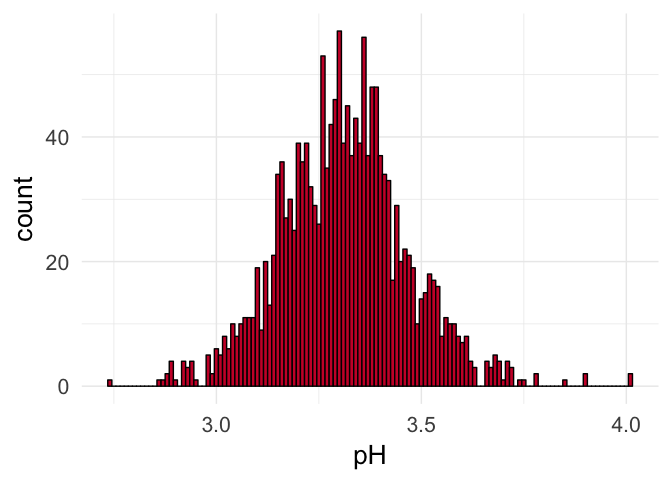
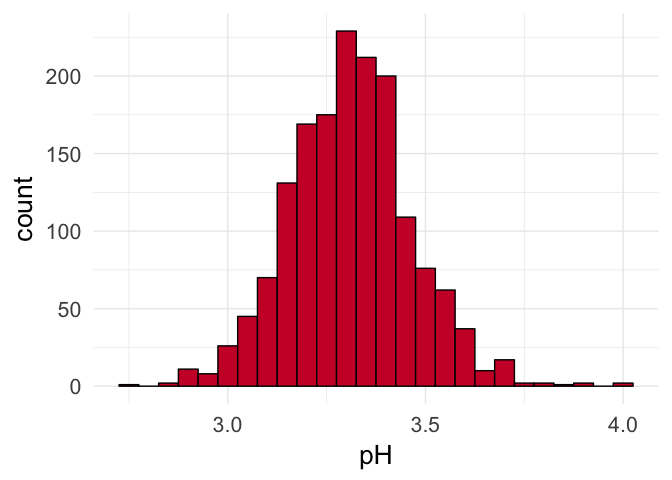
Finished univariate plot section.

diff --git a/red_red_wine.md b/red_red_wine.md
@@ -318,10 +318,12 @@ ggplot(rw) +
 ``` r
 ggplot(rw) +
   geom_histogram(aes(x = pH), color = "black",
-                 fill = "#CC0033", binwidth = .01)
+                 fill = "#CC0033", binwidth = .05)
 ```
 
 ![](red_red_wine_files/figure-markdown_github/unnamed-chunk-21-1.png)
+
+pH (overall acidity) also shows a normalish distribution with few outliers.
 
 #### Sulphates
 
@@ -333,6 +335,17 @@ ggplot(rw) +
 
 ![](red_red_wine_files/figure-markdown_github/unnamed-chunk-22-1.png)
 
+Sulphates, an additive which serves as a preservative, demonstrates a right skewed curve with a long tail. Let's see what how it looks after a square root transformation.
+
+``` r
+ggplot(rw) +
+  geom_histogram(aes(x = sqrt(sulphates)), color = "black",
+                 fill = "#CCFF00", binwidth = .02) +
+  scale_x_continuous(lim = c(0.5, quantile(rw$sulfates, 0.95)))
+```
+
+![](red_red_wine_files/figure-markdown_github/unnamed-chunk-23-1.png) That's normalish.
+
 #### Alcohol Content % By Volume
 
 ``` r
@@ -342,9 +355,16 @@ ggplot(rw) +
                  fill = "#FF6666", binwidth = .1)
 ```
 
-![](red_red_wine_files/figure-markdown_github/unnamed-chunk-23-1.png)
+![](red_red_wine_files/figure-markdown_github/unnamed-chunk-24-1.png)
 
-> **Tip**: Make sure that you leave a blank line between the start / end of each code block and the end / start of your Markdown text so that it is formatted nicely in the knitted text. Note as well that text on consecutive lines is treated as a single space. Make sure you have a blank line between your paragraphs so that they too are formatted for easy readability.
+``` r
+summary(rw$alcohol)
+```
+
+    ##    Min. 1st Qu.  Median    Mean 3rd Qu.    Max. 
+    ##    8.40    9.50   10.20   10.42   11.10   14.90
+
+Alcohol content by volume slightly right-skewed and in the 9.5-11 range. This is fairly intutive to anyone who drinks wine. It will be interesting to look at correlations between high/low alcohol content and the quality score.
 
 Univariate Analysis
 ===================
